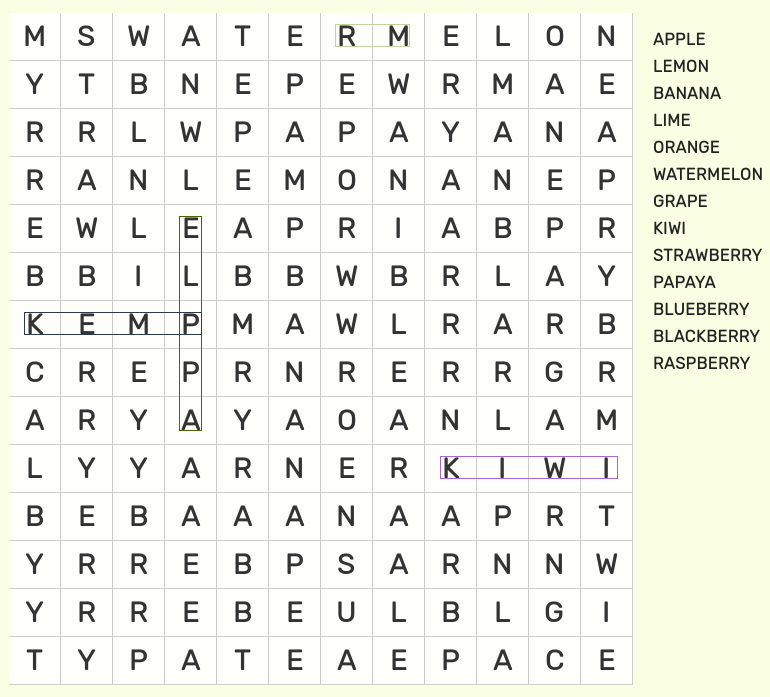
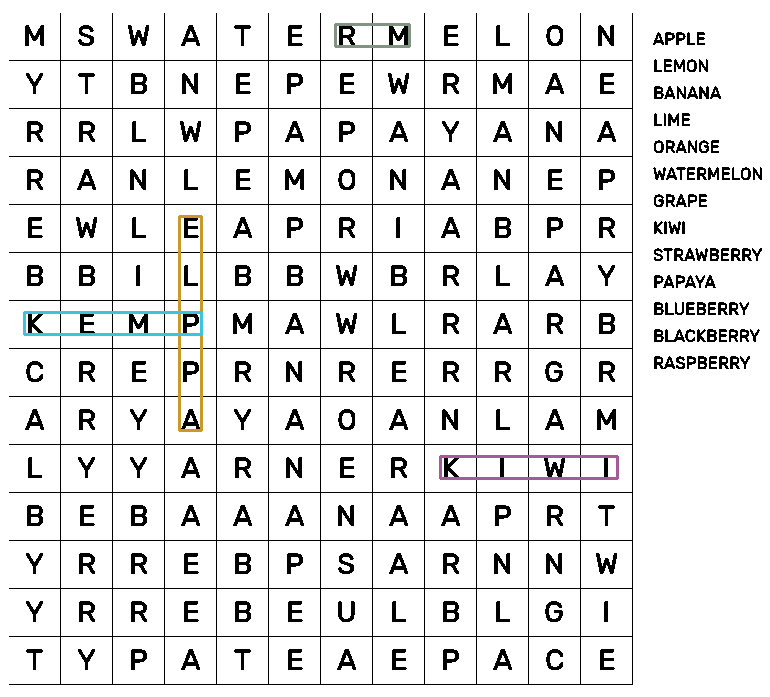
ea*

diff --git a/Solver/solver.c b/Solver/solver.c
@@ -80,14 +80,18 @@ void draw_line(SDL_Surface* image, int x0, int y0, int x1, int y1, Uint32 color)
 }
 
 void draw_rect(SDL_Surface* image, int x0, int y0, int x1, int y1, Uint32 color) {
-    SDL_Rect rect1 = {x0 - 1, y0 - 1, x1 + 1, y0 + 1};
-    SDL_Rect rect2 = {x1 - 1, y0 - 1, x1 + 1, y1 + 1};
-    SDL_Rect rect3 = {x1 - 1, y1 - 1, x0 + 1, y1 + 1};
-    SDL_Rect rect4 = {x0 - 1, y1 - 1, x0 + 1, y0 + 1};
-    SDL_FillRect(image, &rect1, color);
-    SDL_FillRect(image, &rect2, color);
-    SDL_FillRect(image, &rect3, color);
-    SDL_FillRect(image, &rect4, color);
+    draw_line(image, x0, y0, x1, y0, color);
+    draw_line(image, x1, y0, x1, y1, color);
+    draw_line(image, x1, y1, x0, y1, color);
+    draw_line(image, x0, y1, x0, y0, color);
+    draw_line(image, x0, y0 + 1, x1, y0 + 1, color);
+    draw_line(image, x1 + 1, y0, x1 + 1, y1, color);
+    draw_line(image, x1, y1 + 1, x0, y1 + 1, color);
+    draw_line(image, x0 + 1, y1, x0 + 1, y0, color);
+    draw_line(image, x0, y0 - 1, x1, y0 - 1, color);
+    draw_line(image, x1 - 1, y0, x1 - 1, y1, color);
+    draw_line(image, x1, y1 - 1, x0, y1 - 1, color);
+    draw_line(image, x0 - 1, y1, x0 - 1, y0, color);
 }
 
 int find_word(char* filepath, char** grid, int*** coordinates, int lines, int columns, char* word) {
